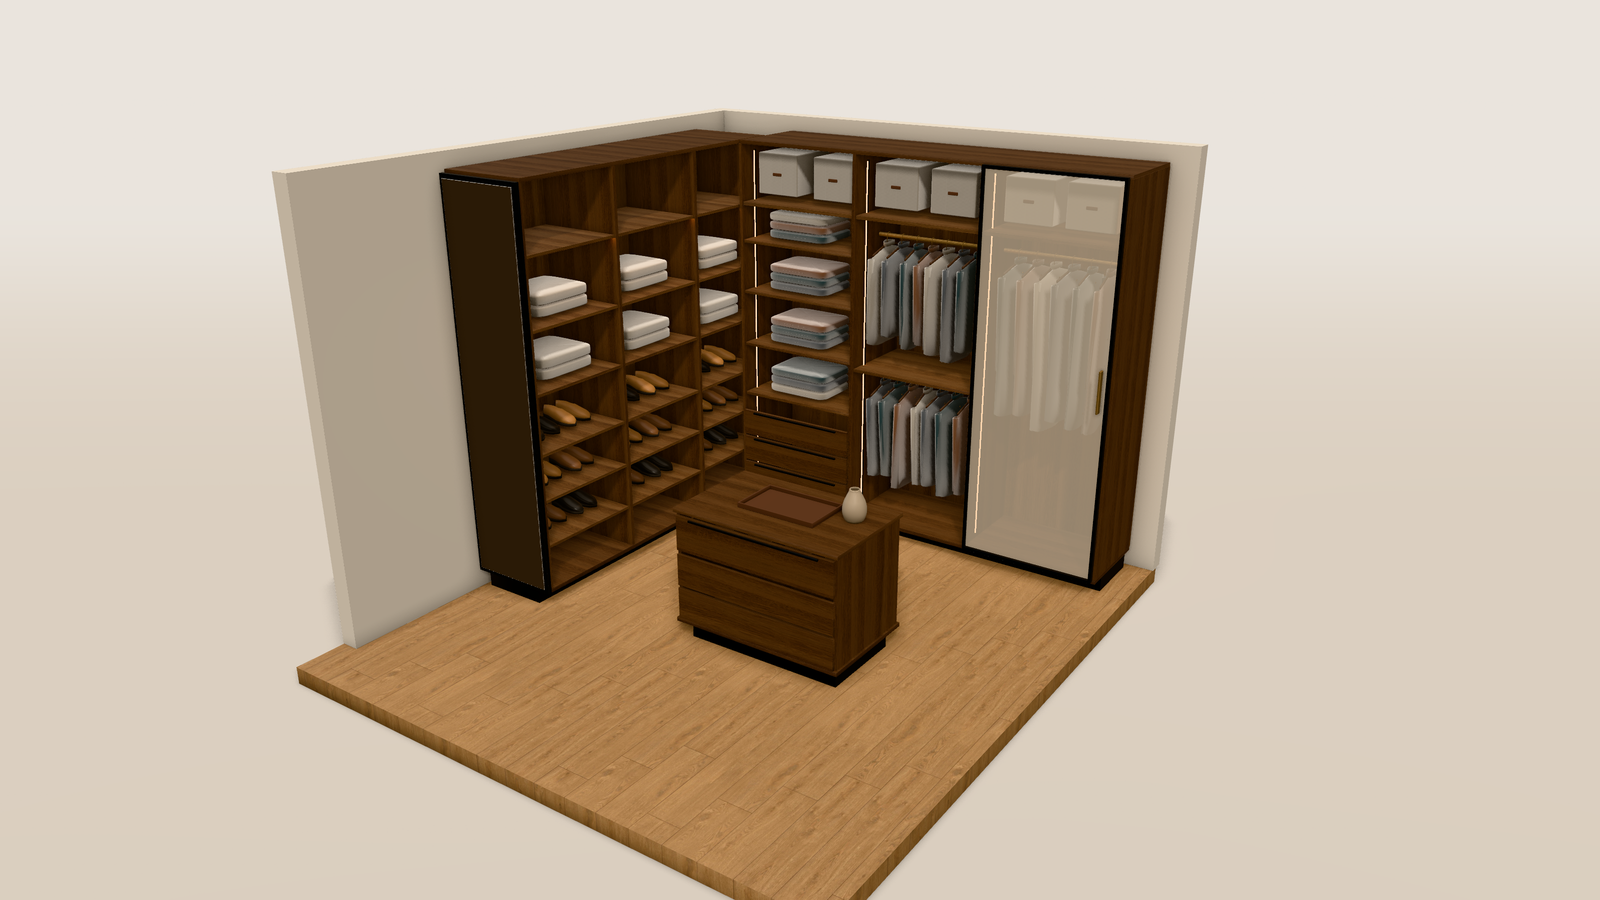
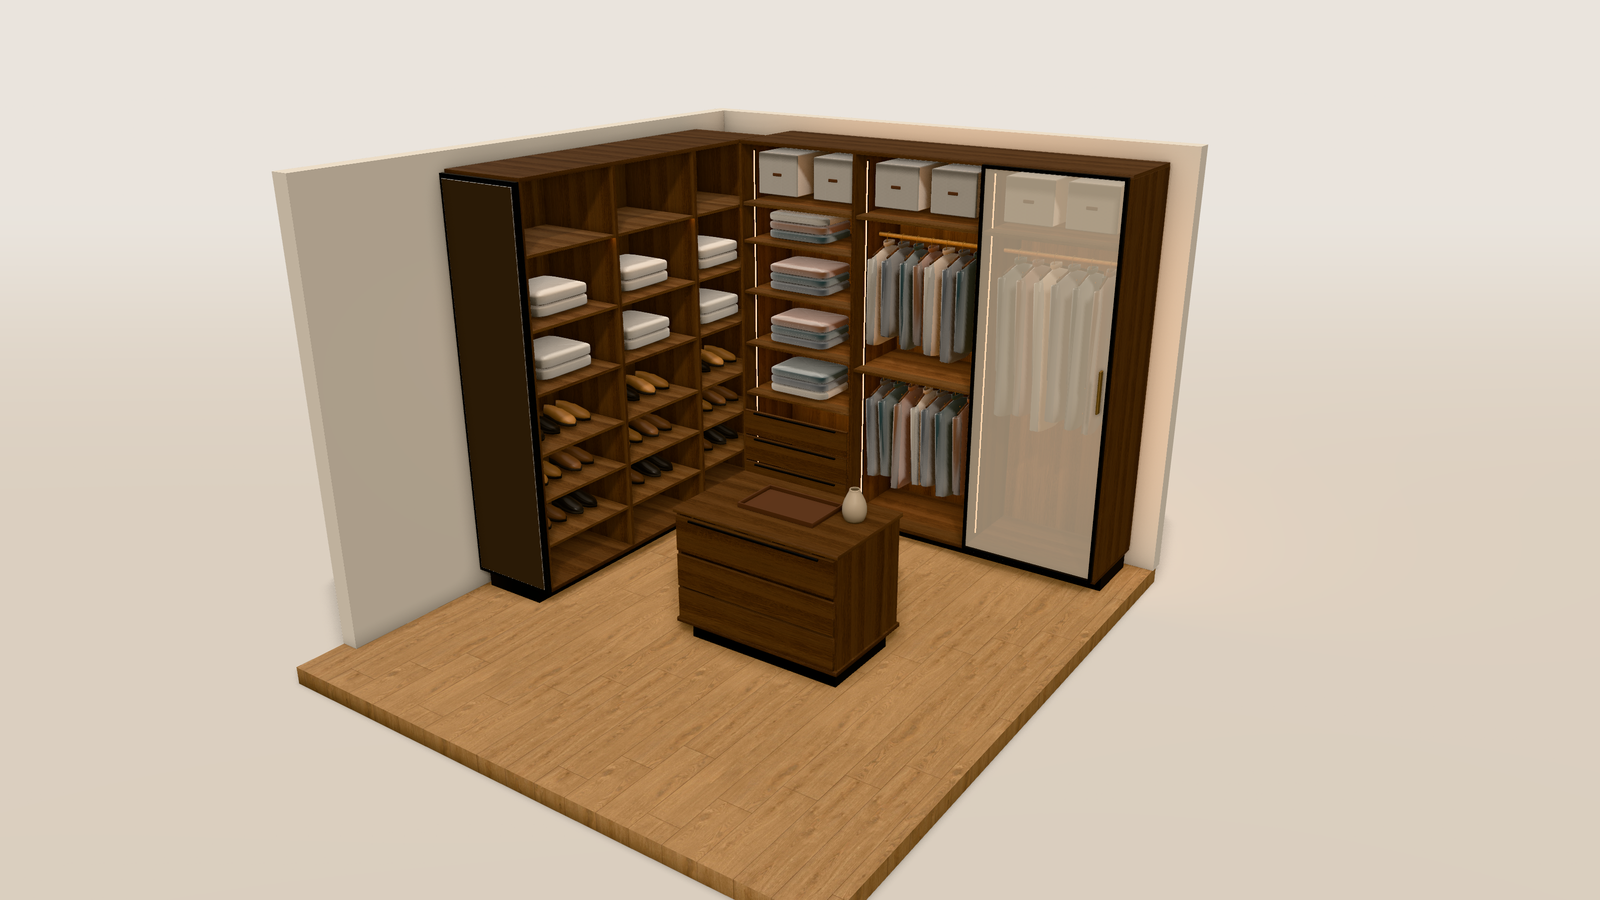
Closet: quatro luzes de LED viram uma luz larga (custo por quadro igual ao da cozinha)
Também: ?qualidade=baixa|media|alta força o nível do visualizador para testes.

diff --git a/src/scripts/visualizador/modelos.ts b/src/scripts/visualizador/modelos.ts
@@ -117,11 +117,9 @@ export const MODELOS: Record<string, ConfigModelo> = {
       [-3, -1, -3, 3, 3.2, -1.52], // parede do fundo
     ],
     luzes: [
-      // perfis verticais: iluminam o interior dos módulos
-      { pos: [-1.065, 1.4, -1.0], w: 0.03, h: 2.4, intensidade: 3, alvo: [-0.6, 1.4, -1.5] },
-      { pos: [-0.155, 1.4, -1.0], w: 0.03, h: 2.4, intensidade: 3, alvo: [0.3, 1.4, -1.5] },
-      { pos: [0.755, 1.4, -1.0], w: 0.03, h: 2.4, intensidade: 3, alvo: [1.2, 1.4, -1.5] },
-      { pos: [1.625, 1.4, -1.0], w: 0.03, h: 2.4, intensidade: 3, alvo: [1.2, 1.4, -1.5] },
+      // Perfis de LED verticais: uma luz larga cobrindo os módulos do fundo
+      // (quatro luzes separadas custavam quase o dobro por quadro no celular).
+      { pos: [0.28, 1.4, -1.0], w: 2.7, h: 2.4, intensidade: 1.1, alvo: [0.28, 1.4, -2] },
       // LED sob o maleiro da sapateira
       { pos: [-1.125, 2.22, -0.01], w: 0.04, h: 2.2, intensidade: 5 },
     ],

diff --git a/src/scripts/visualizador/controle.ts b/src/scripts/visualizador/controle.ts
@@ -16,6 +16,9 @@ const reduzirMovimento = () => matchMedia('(prefers-reduced-motion: reduce)').ma
 const telaPequena = () => matchMedia('(max-width: 899px), (pointer: coarse)').matches;
 
 function detectarQualidade(): Qualidade {
+  // ?qualidade=baixa|media|alta força o nível (útil para testar)
+  const forcada = new URLSearchParams(location.search).get('qualidade');
+  if (forcada === 'baixa' || forcada === 'media' || forcada === 'alta') return forcada;
   const nav = navigator as Navigator & { deviceMemory?: number; connection?: { saveData?: boolean } };
   const memoria = nav.deviceMemory ?? 8;
   const nucleos = nav.hardwareConcurrency ?? 8;
